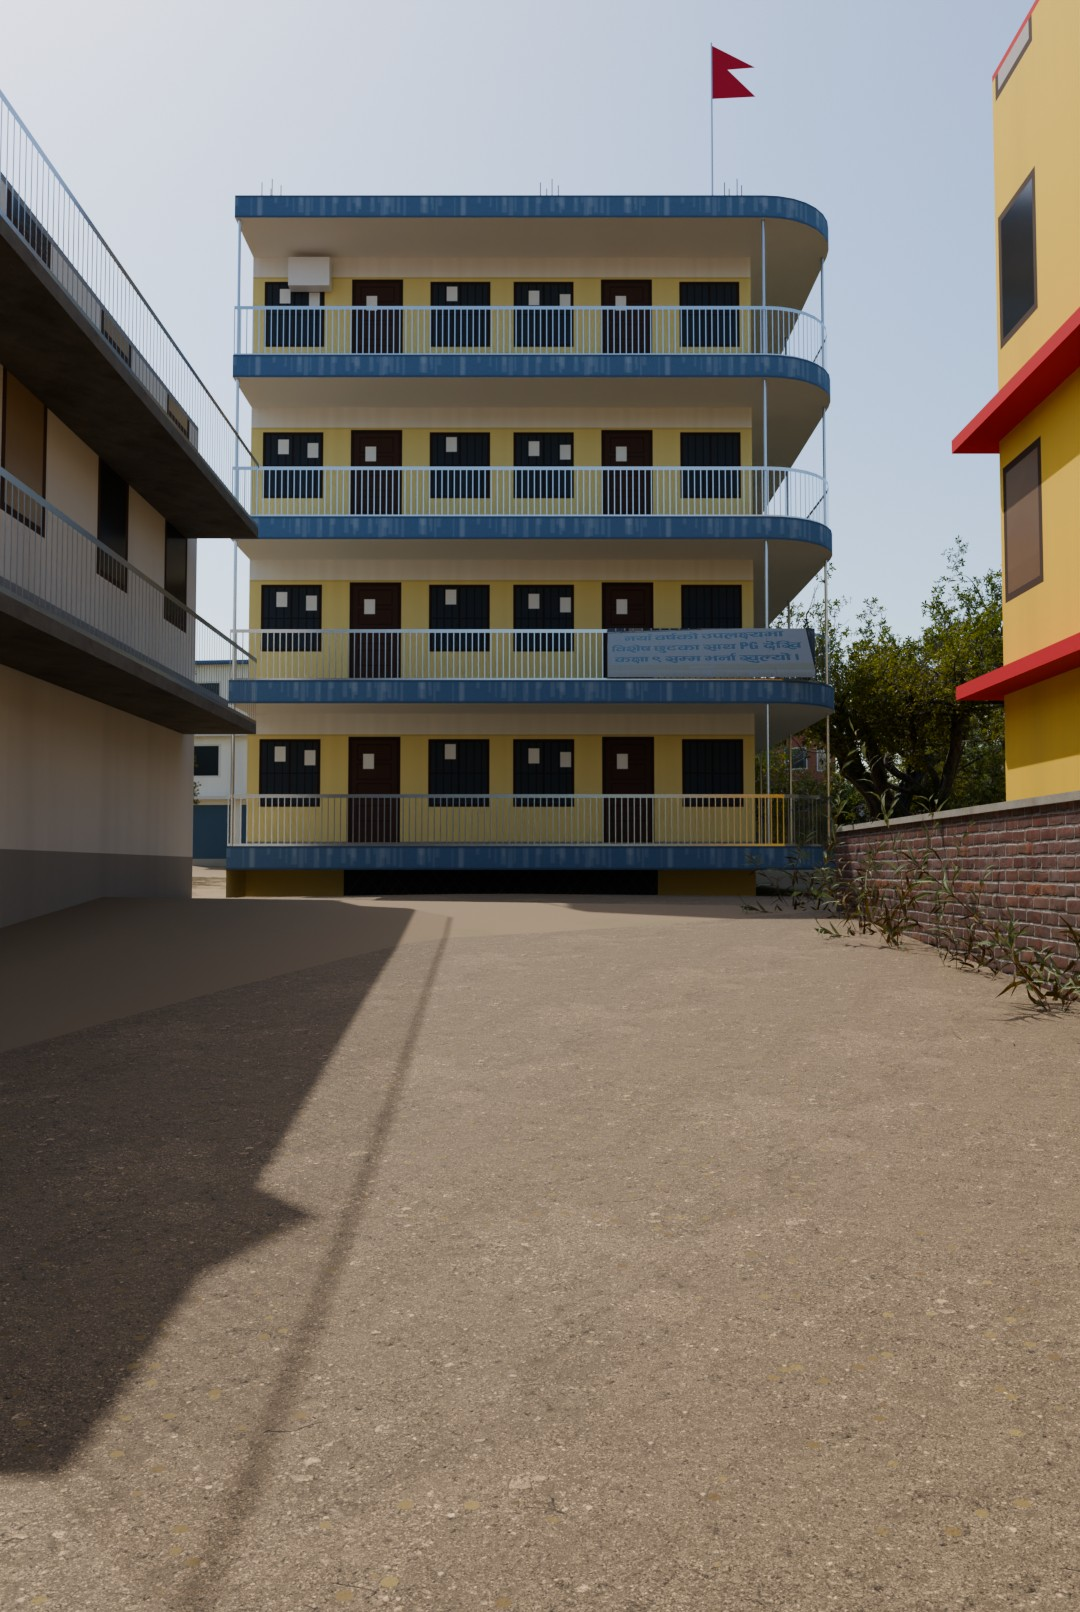
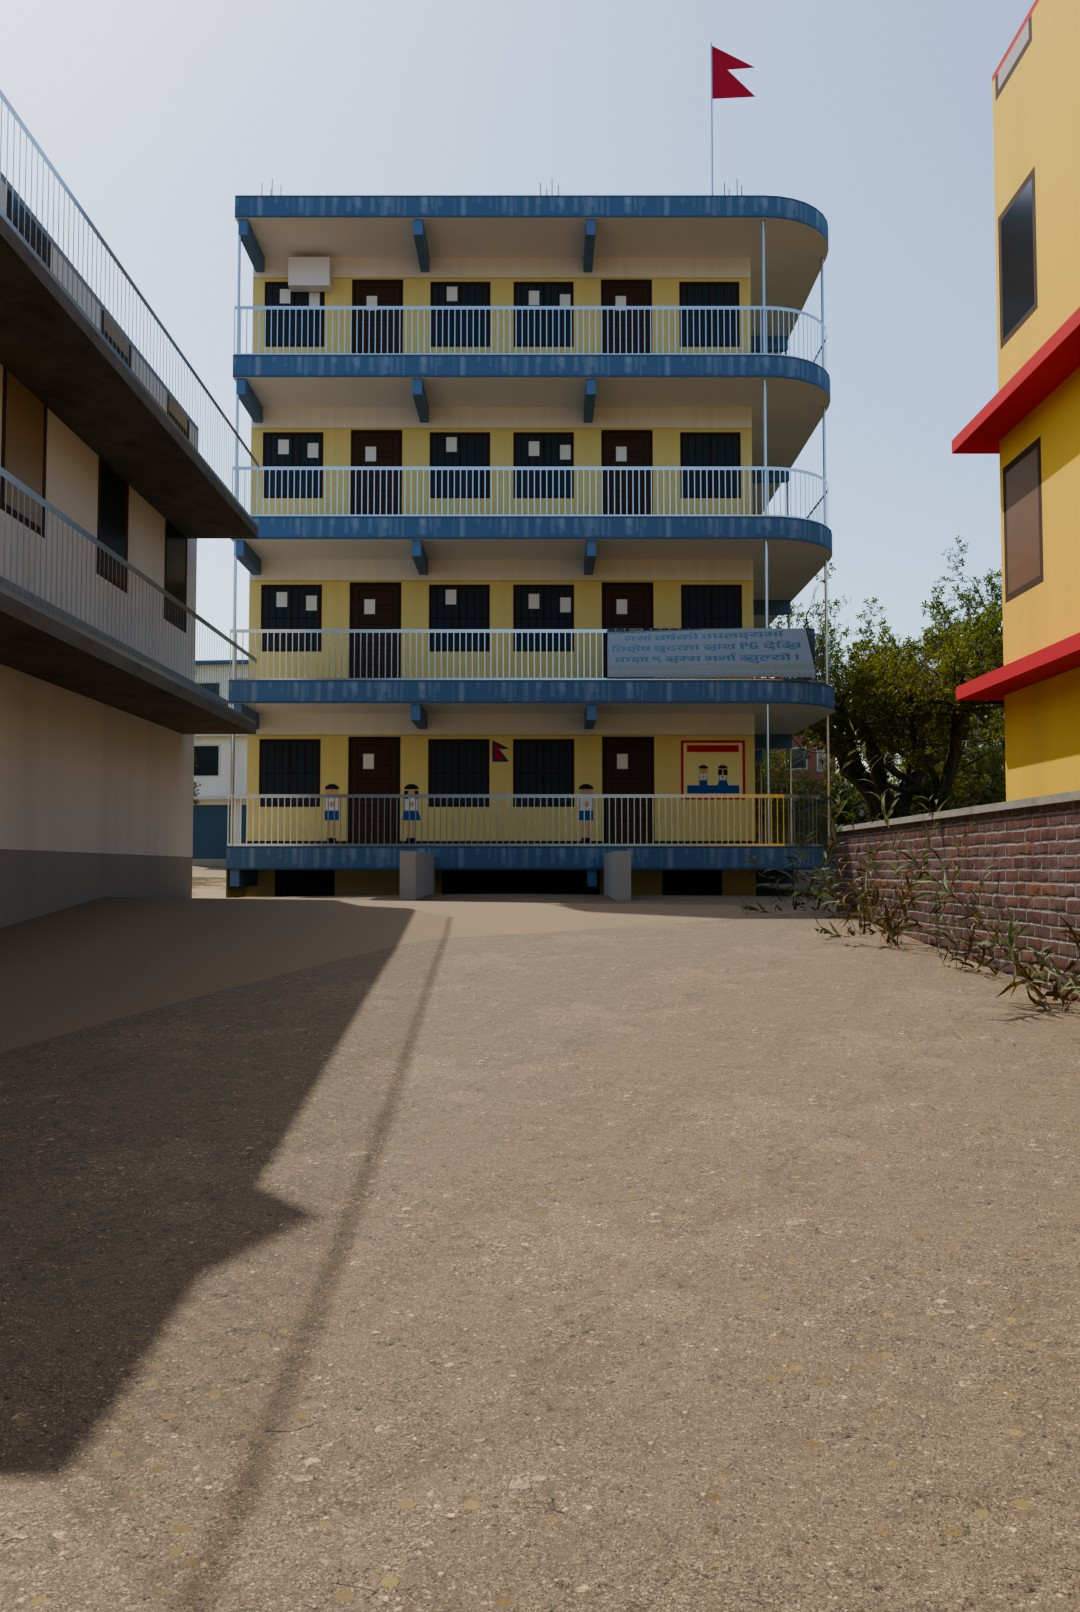
feat(website): the school's ground floor and entrance, from the walk-through
From IMG_3055 (the walk in from the driveway) and IMG_3099: the ground
storey's wall painted with pupils in uniform, the Nepal flag and the
welcome panel, over a dark skirting; the semi-basement under the
ground-floor corridor with its barred windows and, on the front, the
collapsible gate at the foot of a ramp between two low concrete walls;
and the blue brackets under every corridor slab. The floors above are
unchanged.

diff --git a/website/src/sections/Arrival.tsx b/website/src/sections/Arrival.tsx
@@ -10,8 +10,8 @@ import { arrive, pointer } from '../three/rig';
  * so it is the first thing on screen while the 3D scene loads behind it.
  */
 const VIEWS = [
-  { color: '/models/env/street_color_10112313.webp', depth: '/models/env/street_depth_10112313.png', focus: [0.5, 0.66] },
-  { color: '/models/env/driveway_color_10112313.webp', depth: '/models/env/driveway_depth_10112313.png', focus: [0.53, 0.62] },
+  { color: '/models/env/street_color_10112355.webp', depth: '/models/env/street_depth_10112355.png', focus: [0.5, 0.66] },
+  { color: '/models/env/driveway_color_10112355.webp', depth: '/models/env/driveway_depth_10112355.png', focus: [0.53, 0.62] },
 ] as const;
 
 const VERT = `attribute vec2 p; varying vec2 v; void main() { v = p * .5 + .5; gl_Position = vec4(p, 0., 1.); }`;

diff --git a/website/model/env/make_school_textures.py b/website/model/env/make_school_textures.py
@@ -79,6 +79,96 @@ while x < W_SIDE - 0.8:
     x += 3.95
 grime(img).save(f'{OUT}/school_side.png')
 
+# --- the ground storey: the same openings, the wall painted with children in uniform, the Nepal flag and a
+# football, a dark skirting (IMG_3055 0:20-1:05), and on the front the "Welcome to" panel (IMG_3019, 3020)
+SKIN, HAIR, SHIRT = (226, 182, 140), (28, 24, 24), (244, 244, 240)
+def kid(d, x, h, size=1.15, girl=False):
+    """A painted pupil, hands joined in namaste, standing on the skirting; x in metres, centre."""
+    s = size; base = h - m(0.14)
+    cx = m(x)
+    leg = m(0.38 * s); body = m(0.42 * s); head = m(0.17 * s)
+    d.rectangle([cx - m(0.07 * s), base - leg, cx - m(0.02 * s), base], fill=SKIN)
+    d.rectangle([cx + m(0.02 * s), base - leg, cx + m(0.07 * s), base], fill=SKIN)
+    d.rectangle([cx - m(0.08 * s), base - m(0.05 * s), cx + m(0.08 * s), base], fill=(20, 20, 22))
+    y = base - leg
+    if girl: d.polygon([(cx - m(0.16 * s), y), (cx + m(0.16 * s), y), (cx + m(0.11 * s), y - m(0.2 * s)), (cx - m(0.11 * s), y - m(0.2 * s))], fill=(40, 90, 170))
+    else: d.rectangle([cx - m(0.12 * s), y - m(0.16 * s), cx + m(0.12 * s), y], fill=(40, 90, 170))
+    d.rectangle([cx - m(0.12 * s), y - body, cx + m(0.12 * s), y - m(0.16 * s)], fill=SHIRT, outline=(150, 150, 150))
+    d.ellipse([cx - m(0.04 * s), y - body + m(0.1 * s), cx + m(0.04 * s), y - body + m(0.2 * s)], fill=SKIN)   # joined hands
+    d.ellipse([cx - head // 2 - 2, y - body - head, cx + head // 2 + 2, y - body + 2], fill=SKIN)
+    d.chord([cx - head // 2 - 3, y - body - head - 3, cx + head // 2 + 3, y - body - head // 3], 180, 360, fill=HAIR)
+    if girl:
+        d.rectangle([cx - head // 2 - 3, y - body - head // 2, cx - head // 2 + 2, y - body + m(0.05)], fill=HAIR)
+        d.rectangle([cx + head // 2 - 2, y - body - head // 2, cx + head // 2 + 3, y - body + m(0.05)], fill=HAIR)
+
+def nepal_flag(d, x, y_top, size=0.6):
+    pts = [(m(x), m(y_top)), (m(x + size * 0.75), m(y_top + size * 0.4)), (m(x + size * 0.3), m(y_top + size * 0.42)),
+           (m(x + size * 0.75), m(y_top + size)), (m(x), m(y_top + size))]
+    d.polygon(pts, fill=(200, 16, 46), outline=(0, 56, 147), width=3)
+
+def ground_storey(width_m, kinds, murals, welcome=False):
+    img, d, w, h = wall(width_m)
+    d.rectangle([0, h - m(0.14), w, h], fill=(38, 40, 44))                  # the dark skirting
+    slot = width_m / len(kinds)
+    for i, k in enumerate(kinds):
+        x = slot * (i + 0.5)
+        if k == 'D': door(d, x, h)
+        elif k == 'W': window(d, x, h, notice=False)
+    for x, kind in murals:
+        if kind == 'flag': nepal_flag(d, x - 0.17, STOREY - 2.2, size=0.42)
+        else: kid(d, x, h, girl=(kind == 'girl'))
+    if welcome:                                  # the welcome panel takes the last slot ('P'), right of the doors
+        c = slot * (kinds.index('P') + 0.5)
+        x0, x1, y0, y1 = m(c - 0.65), m(c + 0.65), h - m(2.2), h - m(1.0)
+        d.rectangle([x0, y0, x1, y1], fill=(250, 238, 170), outline=(200, 40, 40), width=4)
+        d.rectangle([x0 + 10, y0 + 8, x1 - 10, y0 + m(0.22)], fill=(214, 46, 46))
+        for k in range(2): kid(d, (x0 + x1) / 2 / PX + (k - 0.5) * 0.4, y1 - 4 + m(0.14), size=0.62, girl=bool(k))
+        d.rectangle([x0 + 10, y1 - m(0.28), x1 - 10, y1 - m(0.12)], fill=(40, 90, 170))
+    return img
+
+slot = W_FRONT / 6
+mid = lambda i: slot * (i + 1.0)          # between openings i and i + 1
+grime(ground_storey(W_FRONT, 'WDWWDP', [(mid(0), 'boy'), (mid(1) - 0.1, 'girl'), (mid(2), 'flag'), (mid(3), 'boy')], welcome=True), 0.05).save(f'{OUT}/school_front_ground.png')
+murals, x = [], 1.68                       # between each door and the window after it
+while x < W_SIDE - 1.0:
+    murals.append((x, rnd.choice(['boy', 'girl'])))
+    x += 3.95
+img, d, w, h = wall(W_SIDE)
+d.rectangle([0, h - m(0.14), w, h], fill=(38, 40, 44))
+x = 0.9
+while x < W_SIDE - 0.8:
+    door(d, x, h); window(d, x + 1.55, h, notice=False); window(d, x + 3.05, h, notice=False)
+    x += 3.95
+for mx, kind in murals:
+    if kind == 'flag': nepal_flag(d, mx - 0.3, STOREY - 2.25)
+    else: kid(d, mx, h, girl=(kind == 'girl'))
+grime(img, 0.05).save(f'{OUT}/school_side_ground.png')
+
+# --- the semi-basement, under the ground-floor corridor: pale yellow wall, barred windows, damp at the foot
+# (IMG_3055 0:14, 1:06); on the front the collapsible gate at the ramp's foot
+def basement(width_m, gate_at=None):
+    bw, bh = m(width_m), m(1.6)
+    img = Image.new('RGB', (bw, bh), (236, 222, 160)); d = ImageDraw.Draw(img)
+    a = np.asarray(img).astype(np.float32)
+    damp = np.linspace(0, 1, bh)[:, None] ** 3
+    a *= (1 - 0.35 * damp)[..., None]
+    img = Image.fromarray(a.astype(np.uint8)); d = ImageDraw.Draw(img)
+    x = 1.2
+    while x < width_m - 0.8:
+        if gate_at is None or abs(x - gate_at) > 2.2:
+            x0, x1 = m(x - 0.6), m(x + 0.6)
+            d.rectangle([x0, m(0.25), x1, m(1.0)], fill=(30, 30, 30))
+            for k in range(x0 + 6, x1, 9): d.line([k, m(0.25), k, m(1.0)], fill=(70, 70, 70), width=2)
+        x += 3.95
+    if gate_at is not None:
+        x0, x1 = m(gate_at - 1.6), m(gate_at + 1.6)
+        d.rectangle([x0, m(0.1), x1, bh], fill=(28, 26, 26))
+        for k in range(x0, x1 - 40, 14):
+            d.line([k, m(0.1), k + 40, bh], fill=(78, 62, 54), width=2); d.line([k + 40, m(0.1), k, bh], fill=(78, 62, 54), width=2)
+    return img
+basement(W_FRONT, gate_at=W_FRONT / 2 + 0.4).save(f'{OUT}/school_base_front.png')
+basement(W_SIDE).save(f'{OUT}/school_base_side.png')
+
 # the slab edge: slate blue, streaked by rain, tile 4 m x 0.45 m
 fw, fh = m(4.0), m(0.45)
 a = np.zeros((fh, fw, 3), np.float32); a[:] = (88, 122, 158)

diff --git a/website/model/env/env_school.py b/website/model/env/env_school.py
@@ -44,7 +44,14 @@ SM = {
     'rebar': flat('MAT-rebar', '#4a3a30', 0.7, 1.0),
     'flag': flat('MAT-flag_nepal', '#c8102e', 0.6),
     'ac': flat('MAT-ac_unit', '#e9ebec', 0.4),
+    'front_ground': mat_img('MAT-school_front_ground', 'school_front_ground.png'),
+    'side_ground': mat_img('MAT-school_side_ground', 'school_side_ground.png'),
+    'base_front': mat_img('MAT-school_basement_front', 'school_base_front.png'),
+    'base_side': mat_img('MAT-school_basement_side', 'school_base_side.png'),
+    'concrete': flat('MAT-school_ramp_wall', '#b9b6ae', 0.9),
+    'bracket': flat('MAT-school_bracket', '#5d80a8', 0.6),
 }
+W_FRONT_TEX = 10.4      # make_school_textures.py's front width; the core's front is TL - TC wide
 
 def mesh(name, build, mats):
     bm = bmesh.new(); uvl = bm.loops.layers.uv.new('UVMap')
@@ -117,17 +124,33 @@ for i, (s, t) in enumerate(posts):
     cylinder(f'GEO-school_post_{i}', P(s, t, Z0), LEVELS[-1] - SLAB - Z0, 0.035, SM['post'], seg=8)
 
 # --- the core: painted storeys on the front and the long side; plain walls behind ------------------------------
-def wall_strip(name, a, b, z0, z1, m, u1):
-    return mesh(name, lambda bm, uvl: quad(bm, uvl, P(*a, z0), P(*b, z0), P(*b, z1), P(*a, z1), [(0, 0), (u1, 0), (u1, 1), (0, 1)]), [m])
+def wall_strip(name, a, b, z0, z1, m, u1, v0=0.0):
+    return mesh(name, lambda bm, uvl: quad(bm, uvl, P(*a, z0), P(*b, z0), P(*b, z1), P(*a, z1), [(0, v0), (u1, v0), (u1, 1), (0, 1)]), [m])
 for k in range(4):
     z = LEVELS[k]
-    wall_strip(f'GEO-school_front_{k}', (SF + CORR, TL), (SF + CORR, TC), z, z + STOREY - SLAB + 0.45, SM['front'], 1.0)
-    wall_strip(f'GEO-school_side_{k}', (SF + CORR, TC), (SB, TC), z, z + STOREY - SLAB + 0.45, SM['side'], (SB - SF - CORR) / 30.0)
-# the semi-basement under the front corridor: its steel gate, the ramp down to it in shadow
-wall_strip('GEO-school_basement_gate', (SF + CORR, TL - 2.0), (SF + CORR, TC + 2.0), 0.0, Z0, SM['gate'], 1.0)
-wall_strip('GEO-school_basement_wall_l', (SF + CORR, TL), (SF + CORR, TL - 2.0), 0.0, Z0, SM['plain'], 1.0)
-wall_strip('GEO-school_basement_wall_r', (SF + CORR, TC + 2.0), (SF + CORR, TC), 0.0, Z0, SM['plain'], 1.0)
-wall_strip('GEO-school_basement_side', (SF + CORR, TC), (SB, TC), 0.0, Z0, SM['plain'], 1.0)
+    ground_floor = k == 0       # the ground storey's wall is painted with pupils, the flag, a welcome panel
+    wall_strip(f'GEO-school_front_{k}', (SF + CORR, TL), (SF + CORR, TC), z, z + STOREY - SLAB + 0.45,
+               SM['front_ground' if ground_floor else 'front'], 1.0)
+    wall_strip(f'GEO-school_side_{k}', (SF + CORR, TC), (SB, TC), z, z + STOREY - SLAB + 0.45,
+               SM['side_ground' if ground_floor else 'side'], (SB - SF - CORR) / 30.0)
+# The semi-basement under the ground-floor corridor: barred windows, and on the front the collapsible gate at
+# the foot of a ramp between two low concrete walls (IMG_3055 0:02, 0:14). The painted band is 1.6 m tall;
+# the 1 m above the ground shows its upper part (the rest is below the ramp's level).
+wall_strip('GEO-school_basement_front', (SF + CORR, TL), (SF + CORR, TC), 0.0, Z0, SM['base_front'], 1.0, v0=0.375)
+wall_strip('GEO-school_basement_side', (SF + CORR, TC), (SB, TC), 0.0, Z0, SM['base_side'], (SB - SF - CORR) / 30.0, v0=0.375)
+GATE_T = TL - (W_FRONT_TEX / 2 + 0.4)          # the gate's centre: where make_school_textures.py paints it
+for i, t in enumerate((GATE_T + 1.75, GATE_T - 1.75)):
+    off = G - gz(SF - 1.6, t)
+    box(f'GEO-school_ramp_wall_{i}', SF - 3.6, SF + 0.05, t - 0.13, t + 0.13, off, off + 0.85, SM['concrete'])
+# blue brackets under every corridor slab, at the posts and across the front (IMG_3099 4:00, 4:40)
+def bracket(name, s0, s1, t0, t1, z):
+    off = G - gz((s0 + s1) / 2, (t0 + t1) / 2)
+    box(name, s0, s1, t0, t1, off + z - SLAB - 0.32, off + z - SLAB + 0.01, SM['bracket'])
+for k, z in enumerate(LEVELS):
+    for i, t in enumerate((TL - 0.15, TL - 3.6, TL - 7.0)):
+        bracket(f'GEO-school_bracket_f{k}_{i}', SF + 0.05, SF + CORR, t - 0.09, t + 0.09, z)
+    for i, (ps, pt) in enumerate(posts[3:]):
+        bracket(f'GEO-school_bracket_s{k}_{i}', ps - 0.09, ps + 0.09, TR + 0.05, TC, z)
 wall_strip('GEO-school_wall_left', (SB, TL), (SF + CORR, TL), 0.0, LEVELS[-1], SM['plain'], 1.0)
 wall_strip('GEO-school_wall_back', (SB, TC), (SB, TL), 0.0, LEVELS[-1], SM['plain'], 1.0)
 wall_strip('GEO-school_left_end_cap', (SF + CORR, TL), (SF, TL), 0.0, Z0, SM['plain'], 1.0)
